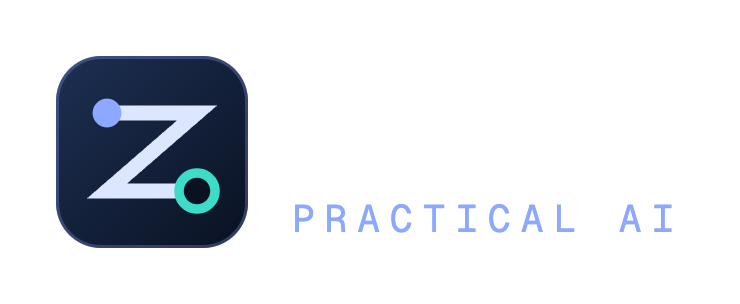
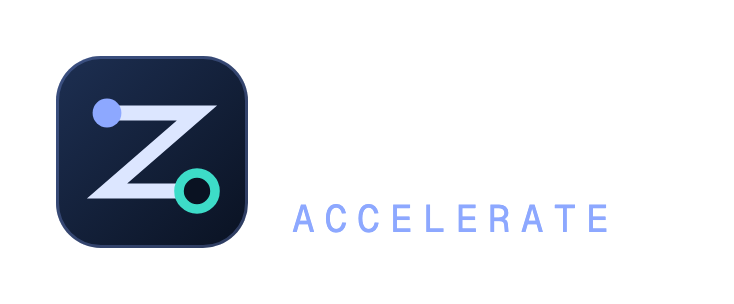
Rebrand the site to "Zastras Accelerate" and drop the Edinburgh and the Lothians line
Replace "Practical AI" with "Accelerate" in the header and footer wordmark,
and the "Practical AI for Edinburgh and the Lothians" tagline with
"Accelerate with AI" (hero eyebrow, footer taglines, page title and
descriptions). "Zastras Practical AI" becomes "Zastras Accelerate" in
Lex's profile, the legal footer, the privacy notice and retainer terms,
page titles, Open Graph and JSON-LD metadata, aria-labels and alt text.
Edinburgh and the Lothians are no longer mentioned anywhere, including
the JSON-LD areaServed entry.

Regenerate the share image and the dark and light lockup PNGs from their
updated sources. Update the expected legal footer in check-site.mjs and
the title pattern in verify-cutover.mjs to match, and bring the README,
To-do and BRAND docs into line.

diff --git a/site/index.html b/site/index.html
@@ -3,8 +3,8 @@
 <head>
   <meta charset="utf-8">
   <meta name="viewport" content="width=device-width, initial-scale=1">
-  <title>Zastras Practical AI | Practical AI for Edinburgh and the Lothians</title>
-  <meta name="description" content="Practical AI for firms in Edinburgh and the Lothians. We help you improve one workflow at a time, with the review steps and safeguards to use AI well.">
+  <title>Zastras Accelerate | Accelerate with AI</title>
+  <meta name="description" content="Accelerate with AI. We help you improve one workflow at a time, with the review steps and safeguards to use AI well.">
   <link rel="canonical" href="https://zastras.uk/">
 
   <!-- PREVIEW-NOINDEX: temporary. Delete this line (and its twin in privacy/index.html) at launch. See docs/CUTOVER.md. -->
@@ -19,33 +19,29 @@
   <link rel="apple-touch-icon" href="assets/img/apple-touch-icon.png">
 
   <meta property="og:type" content="website">
-  <meta property="og:site_name" content="Zastras Practical AI">
+  <meta property="og:site_name" content="Zastras Accelerate">
   <meta property="og:locale" content="en_GB">
   <meta property="og:title" content="AI that earns its place in your business">
-  <meta property="og:description" content="Practical AI for Edinburgh and the Lothians. We help you improve one workflow at a time, with the safeguards to use AI well.">
+  <meta property="og:description" content="Accelerate with AI. We help you improve one workflow at a time, with the safeguards to use AI well.">
   <meta property="og:url" content="https://zastras.uk/">
   <meta property="og:image" content="https://zastras.uk/assets/img/og-image.png">
   <meta property="og:image:width" content="1200">
   <meta property="og:image:height" content="630">
-  <meta property="og:image:alt" content="Zastras Practical AI: AI that earns its place in your business.">
+  <meta property="og:image:alt" content="Zastras Accelerate: AI that earns its place in your business.">
   <meta name="twitter:card" content="summary_large_image">
   <meta name="twitter:title" content="AI that earns its place in your business">
-  <meta name="twitter:description" content="Practical AI for Edinburgh and the Lothians. One workflow at a time, with the safeguards to use AI well.">
+  <meta name="twitter:description" content="Accelerate with AI. One workflow at a time, with the safeguards to use AI well.">
   <meta name="twitter:image" content="https://zastras.uk/assets/img/og-image.png">
 
   <script type="application/ld+json">
   {
     "@context": "https://schema.org",
     "@type": "ProfessionalService",
-    "name": "Zastras Practical AI",
+    "name": "Zastras Accelerate",
     "legalName": "ZASTRAS LTD",
     "url": "https://zastras.uk/",
     "logo": "https://zastras.uk/assets/img/logo-mark-512.png",
-    "description": "Practical AI consultancy helping firms in Edinburgh and the Lothians adopt AI one workflow at a time.",
-    "areaServed": [
-      { "@type": "City", "name": "Edinburgh" },
-      { "@type": "AdministrativeArea", "name": "The Lothians" }
-    ]
+    "description": "Consultancy helping firms accelerate their use of AI, one workflow at a time."
   }
   </script>
 
@@ -89,11 +85,11 @@
 
   <header class="site-header on-dark">
     <div class="container site-header__inner">
-      <a class="brand" href="#top" aria-label="Zastras Practical AI, back to the top">
+      <a class="brand" href="#top" aria-label="Zastras Accelerate, back to the top">
         <svg class="brand__mark" viewBox="0 0 64 64" aria-hidden="true" focusable="false"><use href="#zp-mark"/></svg>
         <span class="brand__text">
           <span class="brand__name">Zastras</span>
-          <span class="brand__sub">Practical AI</span>
+          <span class="brand__sub">Accelerate</span>
         </span>
       </a>
 
@@ -123,7 +119,7 @@
     <section class="section section--dark texture hero on-dark" id="top" aria-labelledby="hero-title">
       <div class="container hero__grid">
         <div class="hero__copy">
-          <p class="eyebrow">Practical AI for Edinburgh and the Lothians</p>
+          <p class="eyebrow">Accelerate with AI</p>
           <h1 id="hero-title">AI that <span class="accent">earns its place</span> in your business.</h1>
           <p class="lead">We help firms find useful applications for AI, improve one workflow at a time, and give their people the tools and safeguards to use it well.</p>
           <div class="hero__actions">
@@ -473,7 +469,7 @@
               <p class="profile__role">Founder | Security and AI Transformation</p>
               <div class="profile__bio">
                 <p>Lex brings senior experience in security, infrastructure and risk from financial services, including Tesco Bank, HSBC and Lloyds, as well as other regulated organisations. He understands the controls that matter when a business handles sensitive information: who can access it, how tools use it, and who remains accountable for the result.</p>
-                <p>At Zastras Practical AI, Lex helps firms find valuable uses for AI and put them into practice with appropriate safeguards, staff training and measurable outcomes.</p>
+                <p>At Zastras Accelerate, Lex helps firms find valuable uses for AI and put them into practice with appropriate safeguards, staff training and measurable outcomes.</p>
               </div>
             </div>
           </article>
@@ -609,7 +605,7 @@
               <div class="hp" aria-hidden="true">
                 <label>Leave this field empty <input type="text" name="_gotcha" tabindex="-1" autocomplete="off"></label>
               </div>
-              <input type="hidden" name="_subject" value="New enquiry from the Zastras Practical AI website">
+              <input type="hidden" name="_subject" value="New enquiry from the Zastras Accelerate website">
 
               <div class="form__actions">
                 <div class="form-status" id="form-status" role="status" aria-live="polite" aria-atomic="true"></div>
@@ -638,14 +634,14 @@
     <div class="container">
       <div class="footer__grid">
         <div class="footer__brand">
-          <a class="brand" href="#top" aria-label="Zastras Practical AI, back to the top">
+          <a class="brand" href="#top" aria-label="Zastras Accelerate, back to the top">
             <svg class="brand__mark" viewBox="0 0 64 64" aria-hidden="true" focusable="false"><use href="#zp-mark"/></svg>
             <span class="brand__text">
               <span class="brand__name">Zastras</span>
-              <span class="brand__sub">Practical AI</span>
+              <span class="brand__sub">Accelerate</span>
             </span>
           </a>
-          <p class="footer__tag">Practical AI for firms in Edinburgh and the Lothians.</p>
+          <p class="footer__tag">Accelerate with AI.</p>
         </div>
         <nav class="footer__nav" aria-label="Footer">
           <ul>
@@ -660,7 +656,7 @@
           </ul>
         </nav>
       </div>
-      <p class="footer__legal">Zastras Practical AI is a service of ZASTRAS LTD. Registered in Scotland. Company number SC832156. Registered office: 48 West George Street, 2nd Floor, Glasgow, Scotland, G2 1BP.</p>
+      <p class="footer__legal">Zastras Accelerate is a service of ZASTRAS LTD. Registered in Scotland. Company number SC832156. Registered office: 48 West George Street, 2nd Floor, Glasgow, Scotland, G2 1BP.</p>
     </div>
   </footer>
 </body>

diff --git a/site/privacy/index.html b/site/privacy/index.html
@@ -3,8 +3,8 @@
 <head>
   <meta charset="utf-8">
   <meta name="viewport" content="width=device-width, initial-scale=1">
-  <title>Privacy notice | Zastras Practical AI</title>
-  <meta name="description" content="How ZASTRAS LTD, trading as Zastras Practical AI, handles personal information when you visit this website or send an enquiry.">
+  <title>Privacy notice | Zastras Accelerate</title>
+  <meta name="description" content="How ZASTRAS LTD, trading as Zastras Accelerate, handles personal information when you visit this website or send an enquiry.">
   <link rel="canonical" href="https://zastras.uk/privacy/">
 
   <!-- PREVIEW-NOINDEX: temporary. Delete this line (and its twin in ../index.html) at launch. See docs/CUTOVER.md. -->
@@ -18,15 +18,15 @@
   <link rel="apple-touch-icon" href="../assets/img/apple-touch-icon.png">
 
   <meta property="og:type" content="website">
-  <meta property="og:site_name" content="Zastras Practical AI">
+  <meta property="og:site_name" content="Zastras Accelerate">
   <meta property="og:locale" content="en_GB">
-  <meta property="og:title" content="Privacy notice | Zastras Practical AI">
+  <meta property="og:title" content="Privacy notice | Zastras Accelerate">
   <meta property="og:description" content="How we handle the details you send through the website contact form.">
   <meta property="og:url" content="https://zastras.uk/privacy/">
   <meta property="og:image" content="https://zastras.uk/assets/img/og-image.png">
   <meta property="og:image:width" content="1200">
   <meta property="og:image:height" content="630">
-  <meta property="og:image:alt" content="Zastras Practical AI: AI that earns its place in your business.">
+  <meta property="og:image:alt" content="Zastras Accelerate: AI that earns its place in your business.">
   <meta name="twitter:card" content="summary_large_image">
 
   <link rel="preload" href="../assets/fonts/geist-latin-wght.woff2" as="font" type="font/woff2" crossorigin>
@@ -55,11 +55,11 @@
 
   <header class="site-header on-dark">
     <div class="container site-header__inner">
-      <a class="brand" href="../" aria-label="Zastras Practical AI, home page">
+      <a class="brand" href="../" aria-label="Zastras Accelerate, home page">
         <svg class="brand__mark" viewBox="0 0 64 64" aria-hidden="true" focusable="false"><use href="#zp-mark"/></svg>
         <span class="brand__text">
           <span class="brand__name">Zastras</span>
-          <span class="brand__sub">Practical AI</span>
+          <span class="brand__sub">Accelerate</span>
         </span>
       </a>
 
@@ -113,7 +113,7 @@
 
         <div class="prose">
           <h2 id="who-we-are">Who we are</h2>
-          <p>Zastras Practical AI is a service of ZASTRAS LTD, a company registered in Scotland under number SC832156. Our registered office is 48 West George Street, 2nd Floor, Glasgow, Scotland, G2 1BP.</p>
+          <p>Zastras Accelerate is a service of ZASTRAS LTD, a company registered in Scotland under number SC832156. Our registered office is 48 West George Street, 2nd Floor, Glasgow, Scotland, G2 1BP.</p>
           <p>This notice explains how we handle personal information when you visit our website or send us an initial enquiry through its contact form. It does not cover work for clients, which is described separately.</p>
 
           <h2 id="information-you-give-us">Information you give us</h2>
@@ -153,14 +153,14 @@
     <div class="container">
       <div class="footer__grid">
         <div class="footer__brand">
-          <a class="brand" href="../" aria-label="Zastras Practical AI, home page">
+          <a class="brand" href="../" aria-label="Zastras Accelerate, home page">
             <svg class="brand__mark" viewBox="0 0 64 64" aria-hidden="true" focusable="false"><use href="#zp-mark"/></svg>
             <span class="brand__text">
               <span class="brand__name">Zastras</span>
-              <span class="brand__sub">Practical AI</span>
+              <span class="brand__sub">Accelerate</span>
             </span>
           </a>
-          <p class="footer__tag">Practical AI for firms in Edinburgh and the Lothians.</p>
+          <p class="footer__tag">Accelerate with AI.</p>
         </div>
         <nav class="footer__nav" aria-label="Footer">
           <ul>
@@ -175,7 +175,7 @@
           </ul>
         </nav>
       </div>
-      <p class="footer__legal">Zastras Practical AI is a service of ZASTRAS LTD. Registered in Scotland. Company number SC832156. Registered office: 48 West George Street, 2nd Floor, Glasgow, Scotland, G2 1BP.</p>
+      <p class="footer__legal">Zastras Accelerate is a service of ZASTRAS LTD. Registered in Scotland. Company number SC832156. Registered office: 48 West George Street, 2nd Floor, Glasgow, Scotland, G2 1BP.</p>
     </div>
   </footer>
 </body>

diff --git a/site/retainer/index.html b/site/retainer/index.html
@@ -3,7 +3,7 @@
 <head>
   <meta charset="utf-8">
   <meta name="viewport" content="width=device-width, initial-scale=1">
-  <title>Retainer terms | Zastras Practical AI</title>
+  <title>Retainer terms | Zastras Accelerate</title>
   <meta name="description" content="When an ongoing retainer makes sense, what it takes to have one, and the terms that apply, including what ZASTRAS LTD commits to.">
   <link rel="canonical" href="https://zastras.uk/retainer/">
 
@@ -18,15 +18,15 @@
   <link rel="apple-touch-icon" href="../assets/img/apple-touch-icon.png">
 
   <meta property="og:type" content="website">
-  <meta property="og:site_name" content="Zastras Practical AI">
+  <meta property="og:site_name" content="Zastras Accelerate">
   <meta property="og:locale" content="en_GB">
-  <meta property="og:title" content="Retainer terms | Zastras Practical AI">
+  <meta property="og:title" content="Retainer terms | Zastras Accelerate">
   <meta property="og:description" content="When a retainer makes sense, what it takes to have one, and what we commit to.">
   <meta property="og:url" content="https://zastras.uk/retainer/">
   <meta property="og:image" content="https://zastras.uk/assets/img/og-image.png">
   <meta property="og:image:width" content="1200">
   <meta property="og:image:height" content="630">
-  <meta property="og:image:alt" content="Zastras Practical AI: AI that earns its place in your business.">
+  <meta property="og:image:alt" content="Zastras Accelerate: AI that earns its place in your business.">
   <meta name="twitter:card" content="summary_large_image">
 
   <link rel="preload" href="../assets/fonts/geist-latin-wght.woff2" as="font" type="font/woff2" crossorigin>
@@ -55,11 +55,11 @@
 
   <header class="site-header on-dark">
     <div class="container site-header__inner">
-      <a class="brand" href="../" aria-label="Zastras Practical AI, home page">
+      <a class="brand" href="../" aria-label="Zastras Accelerate, home page">
         <svg class="brand__mark" viewBox="0 0 64 64" aria-hidden="true" focusable="false"><use href="#zp-mark"/></svg>
         <span class="brand__text">
           <span class="brand__name">Zastras</span>
-          <span class="brand__sub">Practical AI</span>
+          <span class="brand__sub">Accelerate</span>
         </span>
       </a>
 
@@ -114,7 +114,7 @@
         </nav>
 
         <div class="prose">
-          <p>These terms apply when you and ZASTRAS LTD, trading as Zastras Practical AI (&ldquo;we&rdquo;), agree an ongoing retainer for a workflow we have reviewed or built with you. ZASTRAS LTD is registered in Scotland under number SC832156, with its registered office at 48 West George Street, 2nd Floor, Glasgow, Scotland, G2 1BP.</p>
+          <p>These terms apply when you and ZASTRAS LTD, trading as Zastras Accelerate (&ldquo;we&rdquo;), agree an ongoing retainer for a workflow we have reviewed or built with you. ZASTRAS LTD is registered in Scotland under number SC832156, with its registered office at 48 West George Street, 2nd Floor, Glasgow, Scotland, G2 1BP.</p>
           <p>They sit alongside a short order form that sets out the details for your firm. They are for businesses and professional practices, not for consumers. Our current prices are on the <a href="../#costs">home page</a>.</p>
 
           <h2 id="in-short">In short</h2>
@@ -278,14 +278,14 @@
     <div class="container">
       <div class="footer__grid">
         <div class="footer__brand">
-          <a class="brand" href="../" aria-label="Zastras Practical AI, home page">
+          <a class="brand" href="../" aria-label="Zastras Accelerate, home page">
             <svg class="brand__mark" viewBox="0 0 64 64" aria-hidden="true" focusable="false"><use href="#zp-mark"/></svg>
             <span class="brand__text">
               <span class="brand__name">Zastras</span>
-              <span class="brand__sub">Practical AI</span>
+              <span class="brand__sub">Accelerate</span>
             </span>
           </a>
-          <p class="footer__tag">Practical AI for firms in Edinburgh and the Lothians.</p>
+          <p class="footer__tag">Accelerate with AI.</p>
         </div>
         <nav class="footer__nav" aria-label="Footer">
           <ul>
@@ -300,7 +300,7 @@
           </ul>
         </nav>
       </div>
-      <p class="footer__legal">Zastras Practical AI is a service of ZASTRAS LTD. Registered in Scotland. Company number SC832156. Registered office: 48 West George Street, 2nd Floor, Glasgow, Scotland, G2 1BP.</p>
+      <p class="footer__legal">Zastras Accelerate is a service of ZASTRAS LTD. Registered in Scotland. Company number SC832156. Registered office: 48 West George Street, 2nd Floor, Glasgow, Scotland, G2 1BP.</p>
     </div>
   </footer>
 </body>

diff --git a/site/404.html b/site/404.html
@@ -3,7 +3,7 @@
 <head>
   <meta charset="utf-8">
   <meta name="viewport" content="width=device-width, initial-scale=1">
-  <title>Page not found | Zastras Practical AI</title>
+  <title>Page not found | Zastras Accelerate</title>
   <meta name="robots" content="noindex">
   <meta name="theme-color" content="#0a1222">
   <!-- This page is served for any missing address, at any depth, so relative paths cannot be trusted.
@@ -15,7 +15,7 @@
 <body>
   <main id="main" class="section section--dark texture on-dark" style="min-height:100vh;display:grid;align-items:center">
     <div class="container" style="display:grid;gap:1.4rem;justify-items:start">
-      <a class="brand" href="./" aria-label="Zastras Practical AI, home page">
+      <a class="brand" href="./" aria-label="Zastras Accelerate, home page">
         <svg class="brand__mark" viewBox="0 0 64 64" aria-hidden="true" focusable="false">
           <rect width="64" height="64" rx="15" fill="#13203A"/>
           <path d="M17 19H47L17 45H47" fill="none" stroke="#DCE6FF" stroke-width="5" stroke-linejoin="miter"/>
@@ -24,7 +24,7 @@
         </svg>
         <span class="brand__text">
           <span class="brand__name">Zastras</span>
-          <span class="brand__sub">Practical AI</span>
+          <span class="brand__sub">Accelerate</span>
         </span>
       </a>
       <p class="eyebrow">Error 404</p>

diff --git a/docs/brand/source/og-image.html b/docs/brand/source/og-image.html
@@ -32,10 +32,10 @@
     <svg viewBox="0 0 64 64"><defs><linearGradient id="t" x1="0" y1="0" x2="1" y2="1"><stop offset="0" stop-color="#1D2F52"/><stop offset="1" stop-color="#0A1222"/></linearGradient></defs>
       <rect width="64" height="64" rx="15" fill="url(#t)"/><rect x=".5" y=".5" width="63" height="63" rx="14.5" fill="none" stroke="#8DA8FF" stroke-opacity=".28"/>
       <path d="M17 19H47L17 45H47" fill="none" stroke="#DCE6FF" stroke-width="5"/><circle cx="17" cy="19" r="4.8" fill="#8DA8FF"/><circle cx="47" cy="45" r="6" fill="#0A1222" stroke="#3DDCC8" stroke-width="3.2"/></svg>
-    <div><b>Zastras</b><span>Practical AI</span></div>
+    <div><b>Zastras</b><span>Accelerate</span></div>
   </div>
   <div class="copy">
-    <div class="eyebrow">Practical AI for Edinburgh and the Lothians</div>
+    <div class="eyebrow">Accelerate with AI</div>
     <h1>AI that <em>earns its place</em> in your business.</h1>
   </div>
   <svg class="motif" viewBox="0 0 420 480" fill="none">

diff --git a/docs/brand/source/lockup.html b/docs/brand/source/lockup.html
@@ -13,6 +13,6 @@
 <div class="l" id="l"><svg viewBox="0 0 64 64"><defs><linearGradient id="t" x1="0" y1="0" x2="1" y2="1"><stop offset="0" stop-color="#1D2F52"/><stop offset="1" stop-color="#0A1222"/></linearGradient></defs>
 <rect width="64" height="64" rx="15" fill="url(#t)"/><rect x=".5" y=".5" width="63" height="63" rx="14.5" fill="none" stroke="#8DA8FF" stroke-opacity=".28"/>
 <path d="M17 19H47L17 45H47" fill="none" stroke="#DCE6FF" stroke-width="5"/><circle cx="17" cy="19" r="4.8" fill="#8DA8FF"/><circle cx="47" cy="45" r="6" fill="#0A1222" stroke="#3DDCC8" stroke-width="3.2"/></svg>
-<div><b>Zastras</b><span>Practical AI</span></div></div>
+<div><b>Zastras</b><span>Accelerate</span></div></div>
 <script>if(location.search.includes('light'))document.body.classList.add('light')</script>
 </body></html>

diff --git a/site/assets/css/main.css b/site/assets/css/main.css
@@ -1,5 +1,5 @@
 /* ==========================================================================
-   Zastras Practical AI — main stylesheet
+   Zastras Accelerate — main stylesheet
    One file, no build step. Sections:
    1. Fonts            2. Design tokens     3. Base and typography
    4. Layout           5. Buttons           6. Header and navigation

diff --git a/site/assets/js/main.js b/site/assets/js/main.js
@@ -1,4 +1,4 @@
-/* Zastras Practical AI: progressive enhancement only.
+/* Zastras Accelerate: progressive enhancement only.
    The page, navigation and contact form all work without this file.
    It adds: a mobile menu, "you are here" highlighting, and inline form feedback. */
 (function () {

diff --git a/docs/BRAND.md b/docs/BRAND.md
@@ -1,4 +1,4 @@
-# Brand: Zastras Practical AI
+# Brand: Zastras Accelerate
 
 The identity has to do two jobs at once: feel unmistakably current and AI-aware, and reassure a law-firm partner or practice manager that the people behind it are sober and careful. Every choice below is made to serve both.
 
@@ -34,7 +34,7 @@ Files:
 
 ## The wordmark
 
-**Zastras** set in Geist at weight 650 with tight tracking, over **PRACTICAL AI** in Geist Mono, widely spaced, in light blue. The two lines carry the two registers of the brand: a confident name, and a quiet technical descriptor.
+**Zastras** set in Geist at weight 650 with tight tracking, over **ACCELERATE** in Geist Mono, widely spaced, in light blue. The two lines carry the two registers of the brand: a confident name, and a quiet technical descriptor.
 
 On the site the wordmark is live text beside the mark. Pre-rendered lockups for other uses are in `docs/brand/`:
 

diff --git a/README.md b/README.md
@@ -1,6 +1,6 @@
 # zastras.uk
 
-Source for the **Zastras Practical AI** website: a one-page site plus a privacy notice and retainer terms, built as plain HTML, CSS and a small amount of JavaScript. No framework, no build step, no analytics, no cookies.
+Source for the **Zastras Accelerate** website: a one-page site plus a privacy notice and retainer terms, built as plain HTML, CSS and a small amount of JavaScript. No framework, no build step, no analytics, no cookies.
 
 > **Status: live, not yet indexable.** `https://zastras.uk/` serves this site over HTTPS (DNS switched on 23 November 2026). Every page still carries a `noindex` tag until the privacy items in [To-do.md](To-do.md) are closed; removing it is the last step of [docs/CUTOVER.md](docs/CUTOVER.md). Nothing in this repository changes DNS.
 

diff --git a/To-do.md b/To-do.md
@@ -1,6 +1,6 @@
 # To-do
 
-Action items for the Zastras Practical AI website. Updated 24 November 2026. The site is live at `https://zastras.uk/` (DNS switched, HTTPS enforced), but search engines are told not to index it (`noindex`) until the privacy items below are closed. Where the cutover stands: [docs/CUTOVER.md](docs/CUTOVER.md), "Status on 24 November 2026".
+Action items for the Zastras Accelerate website. Updated 24 November 2026. The site is live at `https://zastras.uk/` (DNS switched, HTTPS enforced), but search engines are told not to index it (`noindex`) until the privacy items below are closed. Where the cutover stands: [docs/CUTOVER.md](docs/CUTOVER.md), "Status on 24 November 2026".
 
 ## Team page
 
